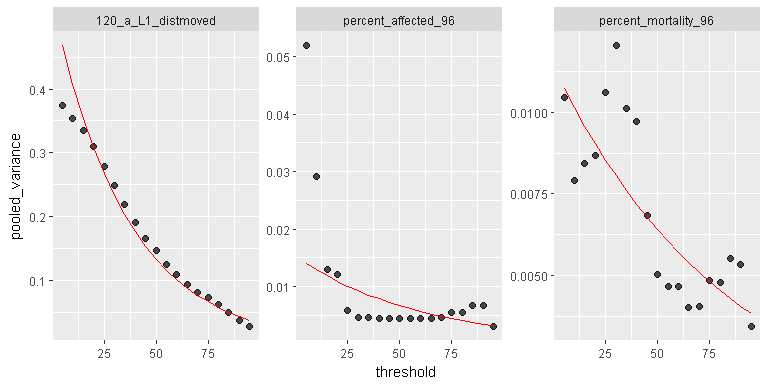
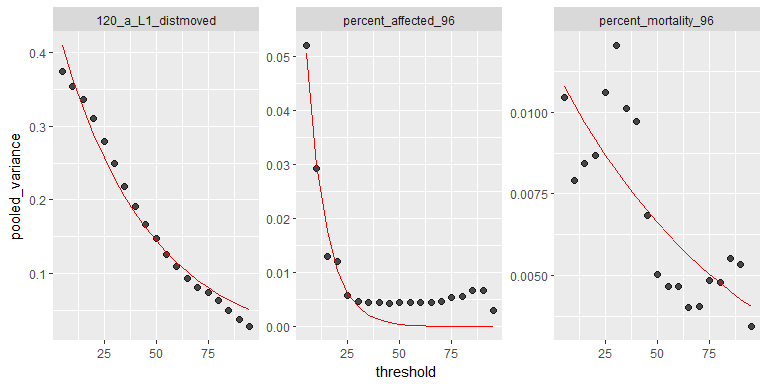
test the exponential fit using SSasymp

diff --git a/data-raw/bmr_exclude/bmr_threshold_curve_fit.md b/data-raw/bmr_exclude/bmr_threshold_curve_fit.md
@@ -1,7 +1,7 @@
 ---
 title: "Test various fitting approaches for exponential curve fit"
 author: "Jui-Hua Hsieh"
-date: "2018-12-22"
+date: "2019-01-09"
 output:
   html_document:
     keep_md: true
@@ -76,6 +76,39 @@ sigcurved <- allcurved %>%
 nls_fit <- function(dd) {
   mod <- nls(pooled_variance ~ exp(a + b * threshold), 
              data = dd, start = list(a = 0, b = 0))
+  result <- dd %>%
+    mutate(
+      fitted_value = fitted(mod)
+    )
+  return(list(update_dataset = result, model = mod))
+}
+```
+
+### nls fit with starting point
+
+
+```r
+nls_fit_sp <- function(dd) {
+  
+  mod_lm <- lm(log(pooled_variance) ~ threshold , data = dd)
+  mod <- nls(pooled_variance ~ exp(a + b * threshold), 
+             data = dd, start = list(a = coef(mod_lm)[1], b = coef(mod_lm)[2]))
+  result <- dd %>%
+    mutate(
+      fitted_value = fitted(mod)
+    )
+  return(list(update_dataset = result, model = mod))
+}
+```
+
+
+### nls fit with starting point search function
+http://douglas-watson.github.io/post/2018-09_exponential_curve_fitting/&sa=D&source=hangouts&ust=1547125299019000&usg=AFQjCNGzoP26jIUYQnAS9Z5Eb4aO66IzPg
+
+
+```r
+nls_fit_SS <- function(dd) {
+  mod <- nls(pooled_variance ~ SSasymp(threshold, yf, y0, log_alpha), data = dd)
   result <- dd %>%
     mutate(
       fitted_value = fitted(mod)
@@ -201,9 +234,36 @@ nlsd <- sigcurved %>%
 plot_fit_value(map_df(nlsd, ~ .x[[1]])) 
 ```
 
-![](bmr_threshold_curve_fit_files/figure-html/unnamed-chunk-10-1.png)<!-- -->
+![](bmr_threshold_curve_fit_files/figure-html/unnamed-chunk-12-1.png)<!-- -->
 
 The fits look good. Yet it will be better if the second one can fit better
+
+### nls fit + sp
+
+
+```r
+nlsd <- sigcurved %>% 
+  split(.$endpoint) %>%
+  map(., nls_fit_sp)
+
+plot_fit_value(map_df(nlsd, ~ .x[[1]]))
+```
+
+![](bmr_threshold_curve_fit_files/figure-html/unnamed-chunk-13-1.png)<!-- -->
+
+
+### nls fit + SS
+
+
+```r
+nlsdS <- sigcurved %>% 
+  split(.$endpoint) %>%
+  map(., nls_fit_SS)
+
+plot_fit_value(map_df(nlsdS, ~ .x[[1]]))
+```
+
+![](bmr_threshold_curve_fit_files/figure-html/unnamed-chunk-14-1.png)<!-- -->
 
 ### glm_gamma_fit
 
@@ -216,7 +276,7 @@ glmd <- sigcurved %>%
 plot_fit_value(map_df(glmd, ~ .x[[1]]))
 ```
 
-![](bmr_threshold_curve_fit_files/figure-html/unnamed-chunk-11-1.png)<!-- -->
+![](bmr_threshold_curve_fit_files/figure-html/unnamed-chunk-15-1.png)<!-- -->
 
 The fits do not look good.
   split(.$endpoint) %>%
@@ -233,7 +293,7 @@ lm_logd <- sigcurved %>%
 plot_fit_value(map_df(lm_logd, ~ .x[[1]]))
 ```
 
-![](bmr_threshold_curve_fit_files/figure-html/unnamed-chunk-12-1.png)<!-- -->
+![](bmr_threshold_curve_fit_files/figure-html/unnamed-chunk-16-1.png)<!-- -->
 
 The fits do not look good.
 
@@ -248,7 +308,7 @@ lmd <- sigcurved %>%
 plot_fit_value(map_df(lmd, ~ .x[[1]]))
 ```
 
-![](bmr_threshold_curve_fit_files/figure-html/unnamed-chunk-13-1.png)<!-- -->
+![](bmr_threshold_curve_fit_files/figure-html/unnamed-chunk-17-1.png)<!-- -->
 
 The fits do not look good.
 
@@ -256,12 +316,12 @@ The fits do not look good.
 
 
 ```r
-map_dbl(nlsd, ~ cal_fitted_cor(.x[[1]]))
+map_dbl(nlsdS, ~ cal_fitted_cor(.x[[1]]))
 ```
 
 ```
 ##   120_a_L1_distmoved  percent_affected_96 percent_mortality_96 
-##            0.9909397            0.9801099            0.7901139
+##            0.9974406            0.9937695            0.7966239
 ```
 
 
@@ -305,12 +365,12 @@ The 120_a_L1_distmoved endpoint got a 'warning' flag and the percent_mortality_9
 ```r
 nlsd_all <- allcurved %>% 
   split(.$endpoint) %>%
-  map(., nls_fit)
+  map(., nls_fit_SS)
 
 plot_fit_value(map_df(nlsd_all, ~ .x[[1]])) 
 ```
 
-![](bmr_threshold_curve_fit_files/figure-html/unnamed-chunk-17-1.png)<!-- -->
+![](bmr_threshold_curve_fit_files/figure-html/unnamed-chunk-21-1.png)<!-- -->
 
 
 ```r
@@ -321,7 +381,7 @@ lmd_all <- allcurved %>%
 plot_fit_value(map_df(lmd_all, ~ .x[[1]]))
 ```
 
-![](bmr_threshold_curve_fit_files/figure-html/unnamed-chunk-18-1.png)<!-- -->
+![](bmr_threshold_curve_fit_files/figure-html/unnamed-chunk-22-1.png)<!-- -->
 
 
 
@@ -355,7 +415,7 @@ The 120_a_L1_distmoved endpoint got a 'warning' flag and the percent_mortality_9
 
 Based on the current dataset, 
 
-1. the nls + exponential fit approach can generate reasonable fit (visually).
+1. the nls + exponential fit approach can generate reasonable fit, especially when SSasymp and a new equation is used .
 2. the correlation approach by combining information from both nls + exponential fit and linear fit approach can reliably provide the flag for the endpoints that should not use the threshold approach. 
 
 
